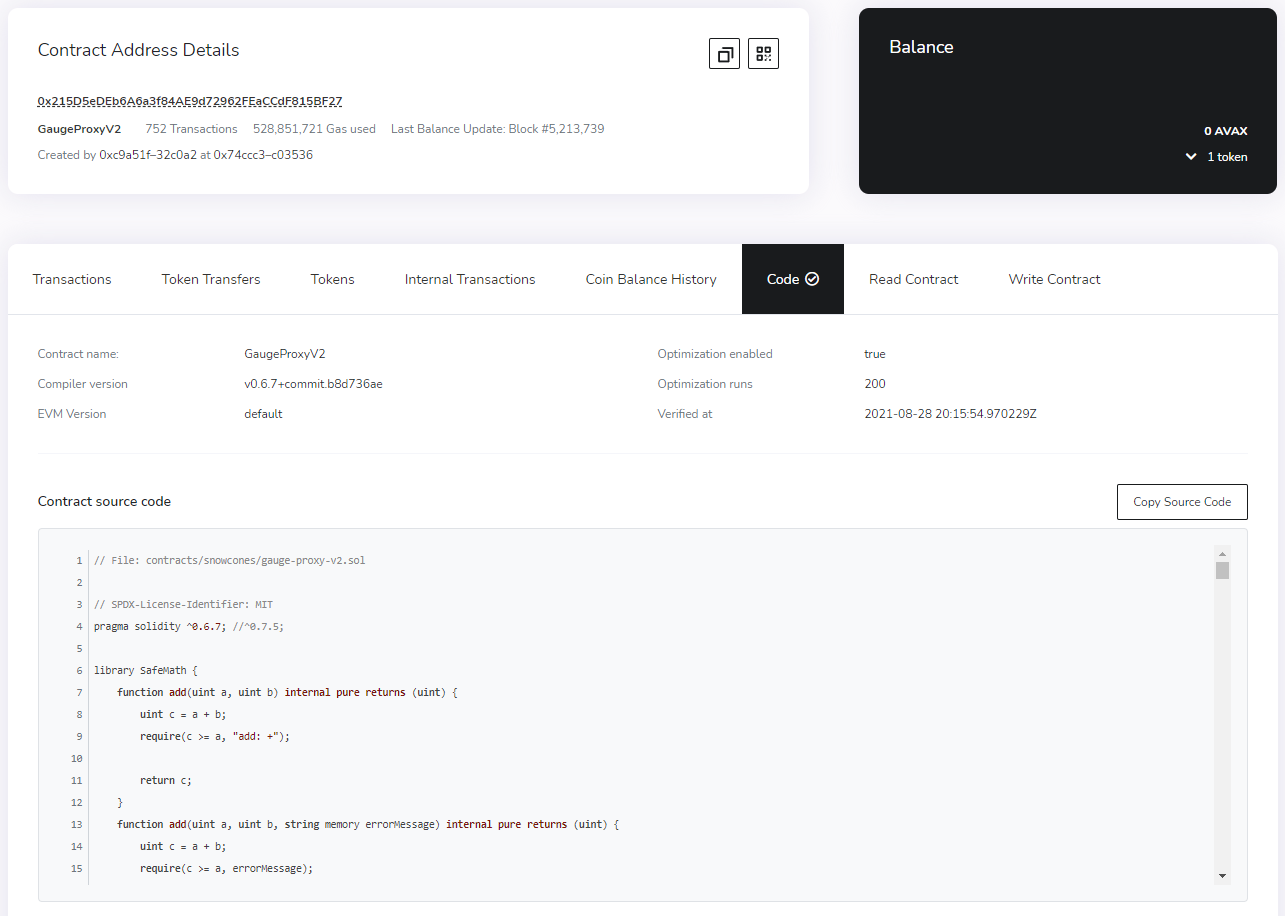
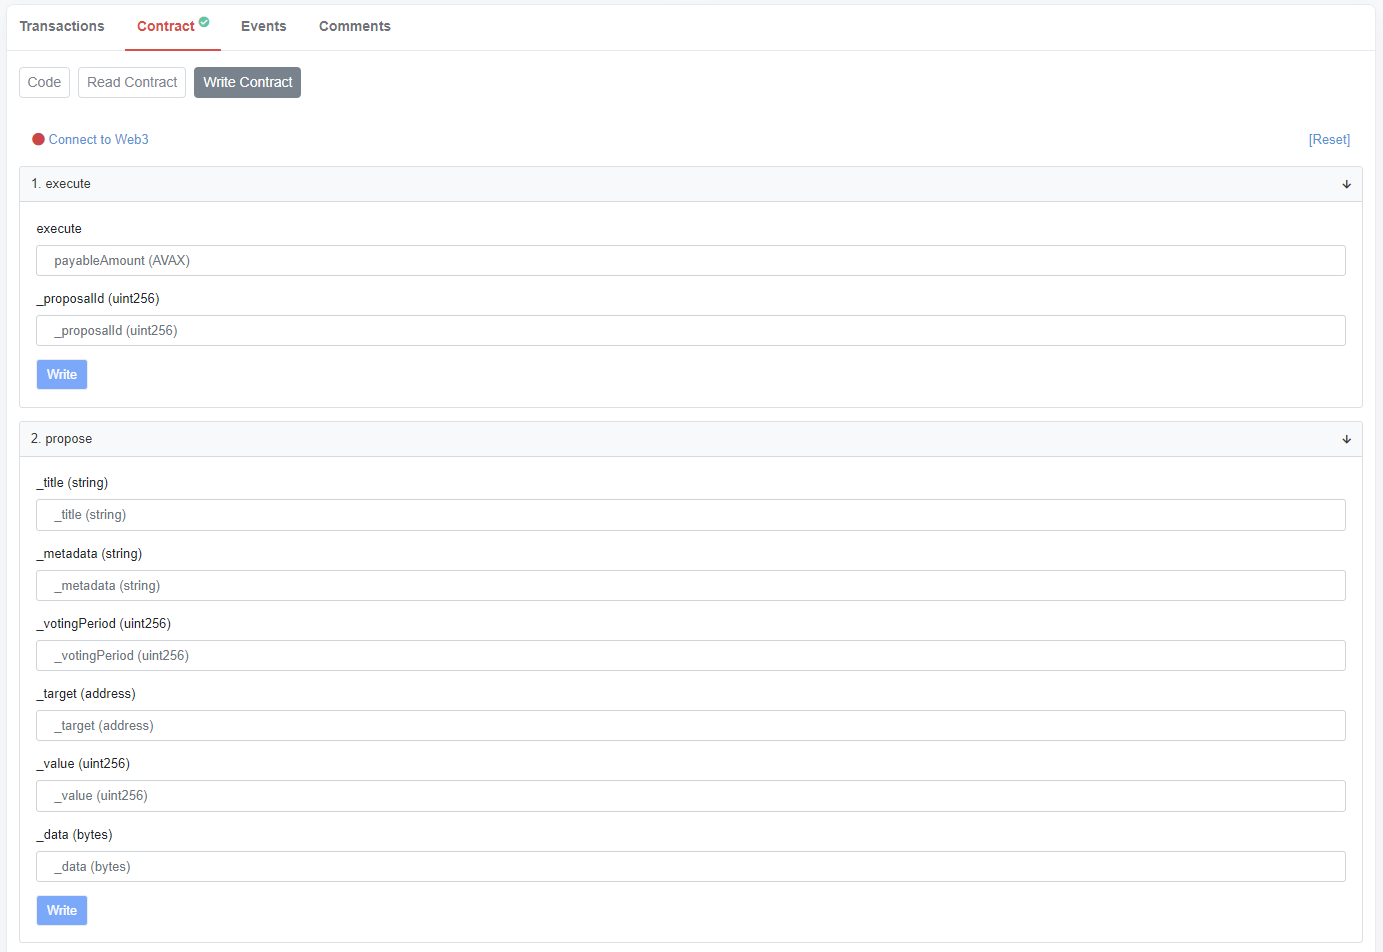
GitBook: [#536] SDU Block Explorers Course Updates

diff --git a/defi-university/fundamentals/fn-103-block-explorers.md b/defi-university/fundamentals/fn-103-block-explorers.md
@@ -22,19 +22,18 @@ Block explorers provide a way to view information on the blockchain in a simple 
 
 ## Block Explorers
 
-The Avalanche C-Chain has three main block explorers:
+The Avalanche C-Chain has two main block explorers:
 
-* **Native Avax Explorer** - [**https://cchain.explorer.avax.network/**](https://cchain.explorer.avax.network)
-* **AvaScan** - [**https://avascan.info/blockchain/c/txs**](https://avascan.info/blockchain/c/txs)
 * **SnowTrace** - [**https://snowtrace.io/**](https://snowtrace.io)****
+* **AvaScan** - [**https://avascan.info/blockchain/c/txs**](https://avascan.info/blockchain/c/txs)
 
 {% hint style="info" %}
 All smart contract / DeFi-related transactions take place on Avalanche's C-Chain (Contract Chain). The links above are for this chain. The X-Chain and P-Chain have their own explorers.
 {% endhint %}
 
-All explorers provide the same type of information, but have differing visuals and sometimes have more or less information regarding any specific smart contract. SnowTrace is the newest addition to the Avalanche ecosystem, made by the same creators of EtherScan and it's other chain alternatives (BscScan, PolygonScan and FtmScan).
+Both explorers provide the same type of information, but have differing visuals and sometimes have more or less information regarding any specific smart contract. SnowTrace is the newest addition to the Avalanche ecosystem, made by the same creators of EtherScan and it's other chain alternatives (BscScan, PolygonScan, FtmScan, etc.).
 
-![Avalanche C-Chain Native Block Explorer](<../../.gitbook/assets/image (5).png>)
+![Snowtrace - Avalanche C-Chain's Main Block Explorer](<../../.gitbook/assets/image (12).png>)
 
 Other blockchains also have their own block explorers. The most popular ones are linked below:
 
@@ -48,19 +47,19 @@ Other blockchains also have their own block explorers. The most popular ones are
 
 The primary and probably most important utility of a block explorer is the ability to see your transaction history. Let's take a look at a random wallet address on Avalanche for example:
 
-![Random Wallet on Avalanche](<../../.gitbook/assets/image (9) (1).png>)
+![Random Wallet on Avalanche](<../../.gitbook/assets/image (9).png>)
 
-If we search for this wallet address on the block explorer, it gives us a lot of information regarding its balance and transaction history. It seems to have been trading some AVAX for DAI.e lately. If you're wondering how it's possible to access anyone's transaction history through a block explorer, it's because everything on a blockchain is public. This is why blockchains are often referred to as public ledgers.
+If we search for this wallet address on the block explorer, it gives us a lot of information regarding its balance and transaction history. It seems to have been transacting some DAI.e, USDT.e and JOE lately. If you're wondering how it's possible to access anyone's transaction history through a block explorer, it's because everything on a blockchain is public. This is why blockchains are often referred to as public ledgers.
 
-Other than viewing wallet addresses, we can also see even more information regarding smart contracts on a block explorer. Let's take a look at one of Snowball's main contracts used for distributing SNOB (our token) rewards for example:
+Other than viewing wallet addresses, we can also see even more information regarding smart contracts on a block explorer. Let's take a look at Snowball's main governance contract for example:
 
-![Snowball's GaugeProxyV2 Contract on Avalanche](<../../.gitbook/assets/image (7).png>)
+![Snowball's Governance Contract on Avalanche](<../../.gitbook/assets/image (11).png>)
 
 We can see the entire source code for any smart contract on the block explorer unless the contract has not been verified yet. This allows for a lot more transparency and makes it easier for legitimate projects to stand out amongst the crowd of smart contracts by using well-written, safe and robust code.
 
 Through a block explorer you can also read, and most importantly write, to any verified smart contract.
 
-![Writing to Snowball's GaugeProxyV2 Contract on Avalanche](<../../.gitbook/assets/image (13).png>)
+![Writing to Snowball's Governance Contract on Avalanche](<../../.gitbook/assets/image (7).png>)
 
 When writing to a smart contract you can connect your wallet to the page much like any decentralized application, and interact with the smart contract directly. This is important since websites may have unforeseen downtime. If this happens you will always have access to your funds through the contract itself, on the blockchain.
 

diff --git a/defi-university/fundamentals/fn-106-gas-fees.md b/defi-university/fundamentals/fn-106-gas-fees.md
@@ -44,7 +44,7 @@ On every blockchain, the price of gas varies depending on how congested the netw
 
 Even so, price spikes may happen due to a large number of users trying to make time-sensitive transactions at any given time:
 
-![Gas Prices on Avalanche C-Chain (23/12/2021)](<../../.gitbook/assets/image (9).png>)
+![Gas Prices on Avalanche C-Chain (23/12/2021)](<../../.gitbook/assets/image (9) (1).png>)
 
 Charts like the one seen above can be found for Avalanche [**here**](https://ava-labs-inc.metabaseapp.com/public/dashboard/d7a03dd2-28cf-44e5-bc1d-3c9ef41e69f5#refresh=60). These spikes can happen during exciting new IDOs, token launches, NFT drops, etc. On Avalanche these usually are very short-lived and regular users can simply avoid making transactions for half an hour or so in order to avoid paying high fees for everyday transactions.
 

diff --git a/defi-university/fundamentals/fn-221-dexs.md b/defi-university/fundamentals/fn-221-dexs.md
@@ -48,7 +48,7 @@ Swapping tokens through a DEX is simple, and in most cases follows the following
 2. Signing an 'approval' transaction through your wallet for the token you want to trade.
 3. Signing the 'swap' transaction through your wallet.
 
-![Trading 1 AVAX for SNOB on Pangolin](<../../.gitbook/assets/image (11).png>)
+![Trading 1 AVAX for SNOB on Pangolin](<../../.gitbook/assets/image (11) (1).png>)
 
 Once you input both the token you want to swap and the token you want to swap for, the dapp should show you the estimated slippage (displayed as 'price impact' above), and any fees associated with your transaction. Large transactions may have higher slippage and fees depending on where you are trading, so make sure you watch out for those and pick your DEX accordingly.
 

diff --git a/defi-university/yield-farming/yf-312-folding.md b/defi-university/yield-farming/yf-312-folding.md
@@ -41,7 +41,7 @@ $$
 
 In order for folding to be profitable, the equation above must result in a positive number. Let's take a look at an example from the last screenshot:
 
-![](<../../.gitbook/assets/image (12).png>)
+![](<../../.gitbook/assets/image (12) (1).png>)
 
 For the AVAX token, we can grab the current interest rates and incentives and check if it would be profitable to perform a folding strategy on such an asset at this time:
 
